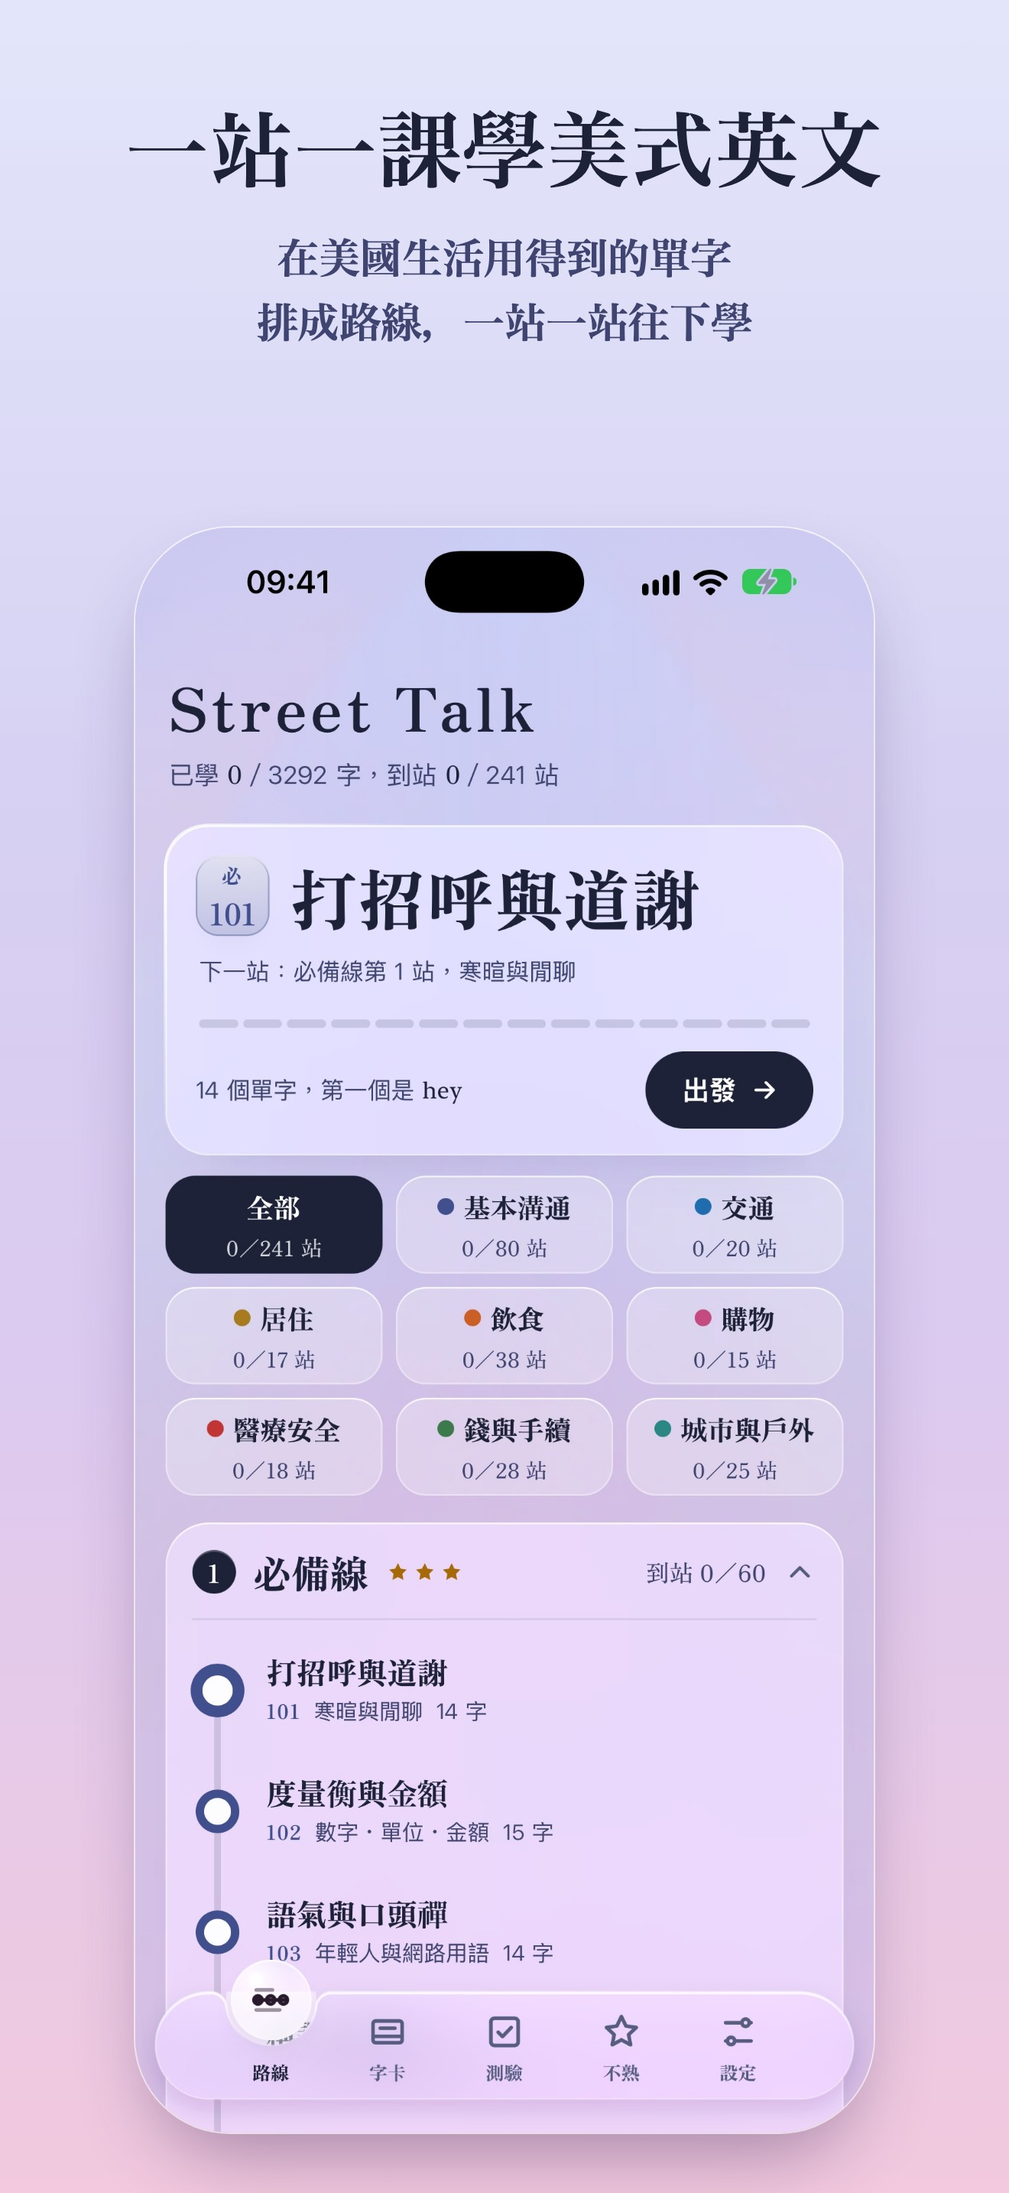
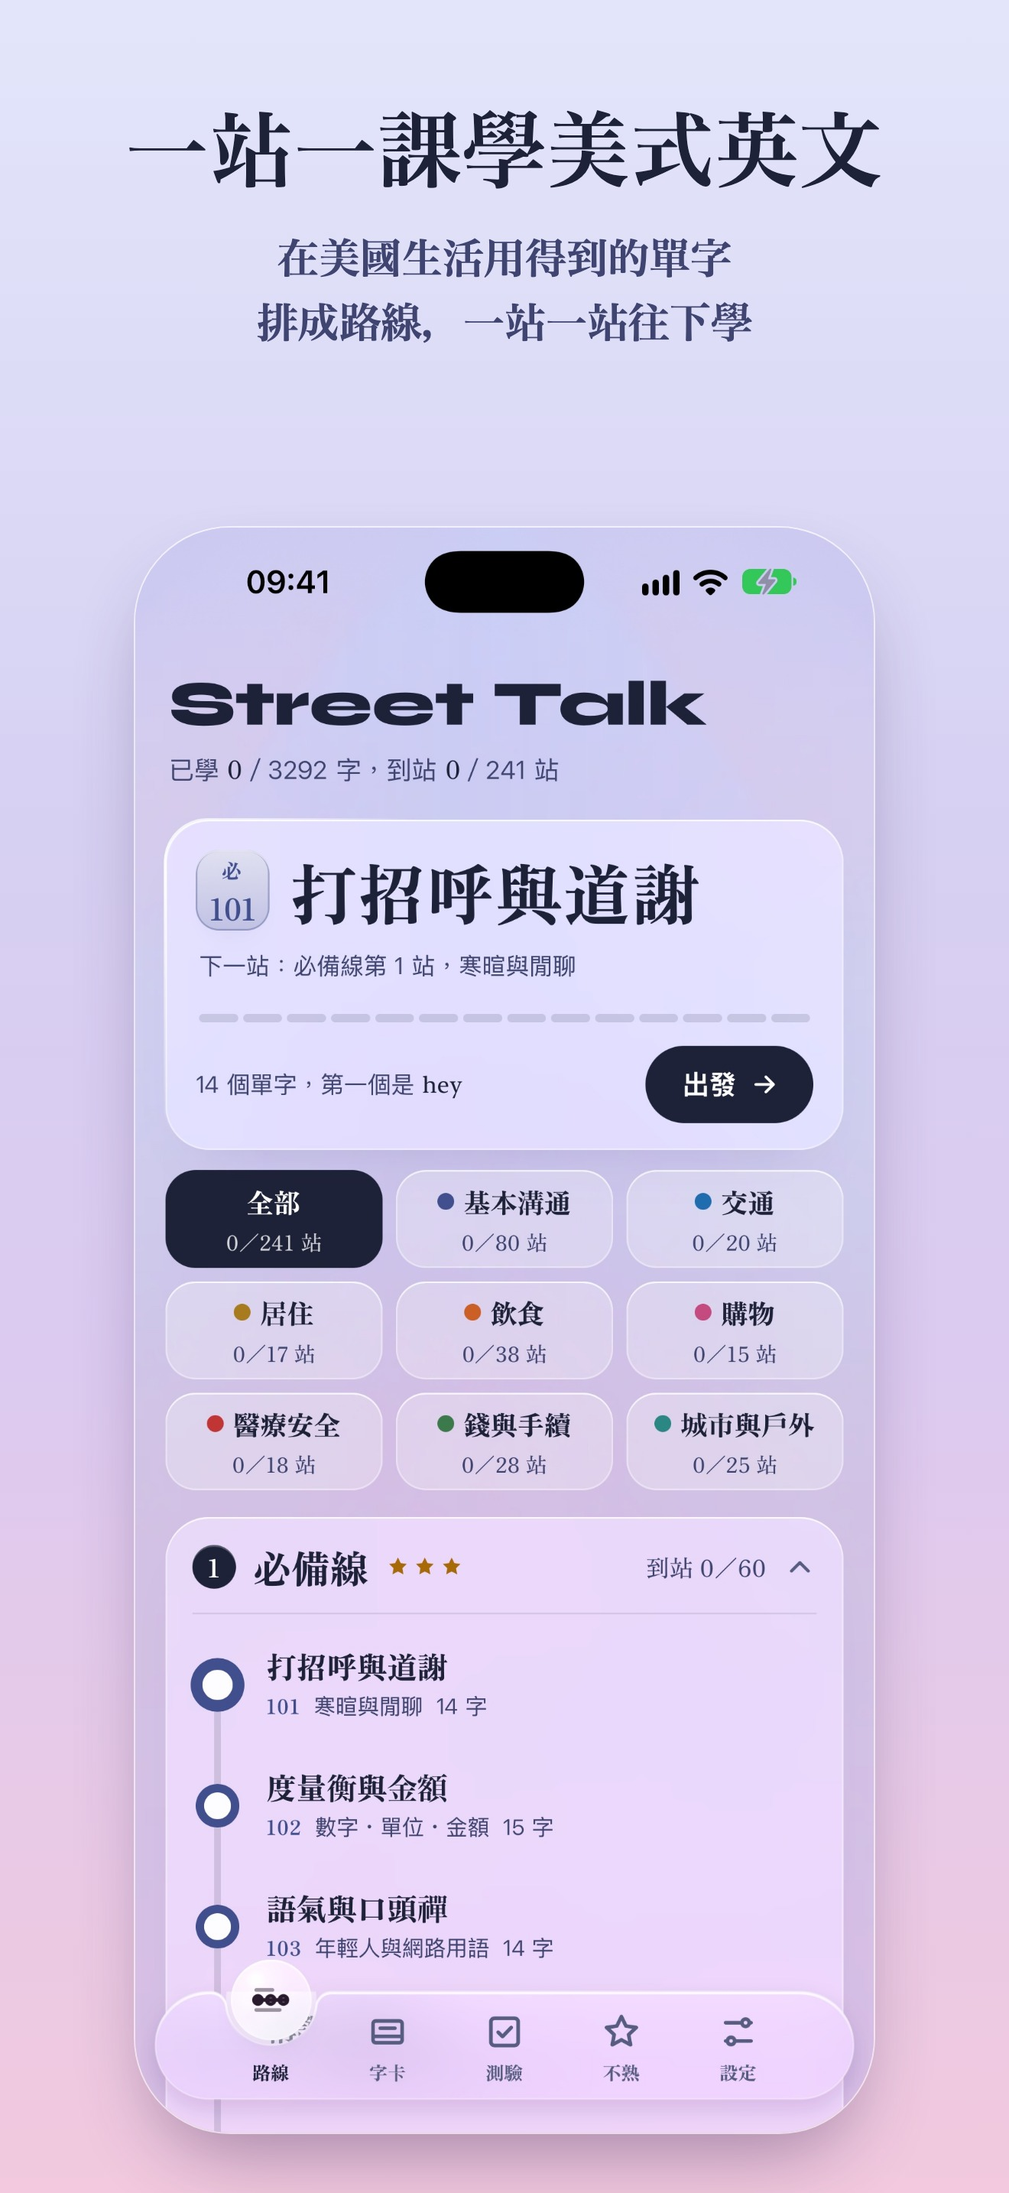
Street Talk：文案頁與截圖頁更新為部分付費版（免費＋完整課程、Syne 標題、鎖頭畫面、內購商品欄位與審查圖）

diff --git a/en-us-vocab/2026-10-10-store-text/index.html b/en-us-vocab/2026-10-10-store-text/index.html
@@ -17,11 +17,13 @@ a{color:var(--ink2)}h1{font-size:22px;margin:12px 0 4px}p.lead{color:var(--ink2)
 <h1>Street Talk：App Store 文案（複製貼上用）</h1>
 <p class="lead">App Store Connect →「App 資訊」與版本頁的欄位，照順序貼上；字數都在 Apple 的上限內。隱私權政策與支援頁已上線（公開的 jeremyl861225.github.io/apps）。</p>
 <div id="list"></div>
-<p class="note">類別：主要「教育」、次要「參考資料」。版權：「2026 你的法定姓名」。價格：免費（我預設，可改）。App 隱私權問卷選「不蒐集資料」。<br>
-<b>年齡分級要照實答，預期是 13+，不會是 4+</b>：約 20 張卡片說明粗話縮寫（都標「粗話，聽得懂就好」）、約 40 張酒吧與飲料字彙。逐題答案在 repo 的 ios/APPSTORE.md「年齡分級問卷」。<br>
-目前還缺：Apple Developer Program（付費帳號）— 加入後才能簽署並上傳。</p>
+<p class="note">類別：主要「教育」、次要「參考資料」。版權：「2026 你的法定姓名」。<br>
+<b>價格（2026-10-11 改成部分付費）</b>：App 免費下載＋App 內購買「完整課程」NT$290（一次買斷、永久使用）。免費：必備線 60 站、常用線前 2 站試學、離線字典與搜尋；完整課程：其餘常用線與進階線。最後一欄是內購商品要填的值。<br>
+App 隱私權問卷選「不蒐集資料」。<br>
+<b>年齡分級要照實答，預期是 13+，不會是 4+</b>：決定 13+ 的是約 40 張酒吧與飲料字卡、字典裡的酒類與藥物字彙（粗話縮寫只有約 20 張，單看粗話是 9+）。開機問年齡不能降級，也有審查風險，所以沒做。逐題答案在 repo 的 ios/APPSTORE.md「年齡分級」。<br>
+<b>上架前還有</b>：Apple Developer Program（付費帳號）與「付費 App 協議」、南韓要在「價格與供應狀況」拿掉（已有同名 StreetTalk 商標）、送審前到智慧局查第 9／41／42 類、網頁版（github.io/street-talk）上架當天要關掉。</p>
 </main><script>
-const FIELDS = [{"label": "名稱", "text": "Street Talk：美國生活英文單字卡", "limit": 30}, {"label": "副標題", "text": "課本沒教的美式說法，離線也能學", "limit": 30}, {"label": "宣傳文字", "text": "課本沒教的美式英文，在美國生活用得到的 3,292 個單字一次備齊：俚語與網路用語、點餐、租屋、看醫生、報稅、開車、職場。單字與片語附 KK 音標，女聲男聲發音，8 種測驗，完全離線。", "limit": 170}, {"label": "描述", "text": "Street Talk 是給台灣人的美國生活英文單字卡。跳過國高中課本教過的字，專收「課本沒教、到了美國一定會碰到」的美式說法：俚語與年輕人網路用語、慣用語、動詞片語，還有點餐、租屋、看醫生、報稅、開車、職場的實用字。依實用度排序，一站一課，像搭地鐵一樣一路往下學。全部免費。\n\n■ 3,292 張字卡、241 站\n・41 個主題：美式俚語、年輕人與網路用語、慣用語、動詞片語、機場與入境、大眾運輸與叫車、開車與 DMV、租屋與搬家、居家修繕、水電網路與手機、餐廳點餐、菜單與料理、速食與咖啡店、超市、購物與退貨、藥局、看醫生與醫療保險、銀行與付款、報稅與證件、職場、學校與小孩、國家公園與天氣、招牌標示、節日與運動、店員常說的話、電話客服與預約……\n・課本字只收「美國用法不同」的：check 是帳單、bill 是紙鈔、trunk 是後車廂\n・分必備、常用、進階三條線，依實用度排序\n・每張都有生活情境例句與中文解釋，幾乎每張還附一句提醒（課本陷阱、小費多少、哪些說法別在正式場合用）\n・單字與片語附 KK 音標\n\n■ 女聲、男聲發音\n・每個單字與例句都有預錄的女聲（Michelle）、男聲（Andrew）發音（語音合成），可交替播放、可放慢速度\n\n■ 8 種測驗\n看英文選中文、看中文選英文、看英文選重音正確的 KK、聽發音選單字、聽發音選中文、聽例句選意思、字母方塊拼字、聽寫。答錯的字可一鍵收進「不熟」清單，集中複習。\n\n■ 離線字典\n字卡以外的字也查得到：15,466 個常用字（中文釋義與 KK 音標），可用手機語音朗讀。\n\n■ 完全離線、不用註冊\n所有字卡、字典與發音都內建在 App 裡，沒有網路也能用。不需帳號、沒有廣告、不蒐集任何資料。\n\n■ 其他\n・深色模式\n・學習紀錄可匯出備份\n\n內容說明：Street Talk 教的是美國人實際怎麼說話，所以收了少數粗話與縮寫（例如 WTF），卡片上都會標註「粗話，聽得懂就好」；另有酒吧與飲料等和酒精有關的字彙。\n\n資料來源：KK 音標由 CMU Pronouncing Dictionary（美式發音）轉換；離線字典的中文釋義參考 ECDICT（MIT）；字型 Zen Old Mincho（SIL OFL 1.1）；發音為 Microsoft Azure 語音服務的神經語音。例句與中文解釋由 AI 撰寫，經規則檢查。", "limit": 4000}, {"label": "關鍵字", "text": "英語,美語,KK音標,俚語,留學,移民,旅遊,背單字,字典,發音,網路用語,慣用語,動詞片語,口語,會話,生活英文,出國,自由行", "limit": 100}, {"label": "支援網址", "text": "https://jeremyl861225.github.io/apps/street-talk/support.html"}, {"label": "隱私權政策網址", "text": "https://jeremyl861225.github.io/apps/street-talk/privacy.html"}, {"label": "App 審查備註（英文）", "text": "Street Talk is an American-English vocabulary flashcard app for Traditional Chinese speakers who live in, study in or travel to the United States.\nAll content (3,292 flashcards, a 15,466-word dictionary and all audio recordings) is bundled in the app. It works fully offline: no account, no sign-in, no network access, no in-app purchases, no tracking.\n\nHow to try it:\n- Home tab (路線): tap 出發 on the large card to start the next lesson; swipe a card to go to the next one; tap the speaker button to hear the pronunciation.\n- 測驗 (Quiz) tab: 8 quiz types, including choosing the correct KK (Taiwanese phonetic) stress pattern.\n- 字卡 (Cards) tab: search cards and the offline dictionary (English or Chinese).\n- 設定 (Settings): voice (female/male/alternating), speed, dark mode, export/import a progress backup; 關於 shows data sources, licenses, the privacy policy and support links.\n\nNote on content: because the app teaches how Americans actually talk, about 20 of the 3,292 cards explain slang or mild profanity (for example \"WTF\", \"kiss ass\"). Each is labeled \"粗話，聽得懂就好\" (\"vulgar; for understanding only\") and explained in a learning context. About 40 cards cover bar and drink vocabulary. There is no user-generated content, chat or web browsing. Audio is speech synthesized with Microsoft Azure Speech (neural voices Michelle and Andrew).", "limit": 4000}];
+const FIELDS = [{"label": "名稱", "text": "Street Talk：美國生活英文單字卡", "limit": 30}, {"label": "副標題", "text": "課本沒教的美式說法，離線也能學", "limit": 30}, {"label": "宣傳文字", "text": "課本沒教的美式英文：俚語與網路用語、點餐、租屋、看醫生、報稅、開車、職場。必備線與 1.5 萬字離線字典永遠免費，單字附 KK 音標與 AI 合成發音，8 種測驗，完全離線。", "limit": 170}, {"label": "描述", "text": "Street Talk 是給台灣人的美國生活英文單字卡。跳過國高中課本教過的字，專收「課本沒教、到了美國一定會碰到」的美式說法：俚語與年輕人網路用語、慣用語、動詞片語，還有點餐、租屋、看醫生、報稅、開車、職場的實用字。依實用度排序，一站一課，像搭地鐵一樣一路往下學。\n\n■ 免費與完整課程\n・App 免費下載。必備線 60 站（823 張字卡）、常用線前 2 站試學、15,439 字離線字典與搜尋，永遠免費\n・完整課程（App 內購買，一次買斷、永久使用、沒有訂閱）：解鎖其餘的常用線與進階線，共 179 站、2,440 張字卡\n・換手機或重裝，用同一個 Apple 帳號就能恢復購買\n\n■ 3,292 張字卡、241 站\n・41 個主題：美式俚語、年輕人與網路用語、慣用語、動詞片語、機場與入境、大眾運輸與叫車、開車與 DMV、租屋與搬家、居家修繕、水電網路與手機、餐廳點餐、菜單與料理、速食與咖啡店、超市、購物與退貨、藥局、看醫生與醫療保險、銀行與付款、報稅與證件、職場、學校與小孩、國家公園與天氣、招牌標示、節日與運動、店員常說的話、電話客服與預約……\n・課本字只收「美國用法不同」的：check 是帳單、bill 是紙鈔、trunk 是後車廂\n・分必備、常用、進階三條線，依實用度排序\n・每張都有生活情境例句與中文解釋，幾乎每張還附一句提醒（課本陷阱、小費多少、哪些說法別在正式場合用）\n・單字與片語附 KK 音標\n\n■ AI 合成語音發音\n・每個單字與例句都有預錄的發音：Microsoft Azure AI Speech 的 AI 合成語音（Michelle 女聲、Andrew 男聲，不是真人錄音），可交替播放、可放慢速度\n\n■ 8 種測驗\n看英文選中文、看中文選英文、看英文選重音正確的 KK、聽發音選單字、聽發音選中文、聽例句選意思、字母方塊拼字、聽寫。答錯的字可一鍵收進「不熟」清單，集中複習。\n\n■ 離線字典\n字卡以外的字也查得到：15,439 個常用字（中文釋義與 KK 音標），可用手機語音朗讀。\n\n■ 離線、不用註冊\n所有字卡、字典與發音都內建在 App 裡，沒有網路也能用（只有購買與恢復購買需要網路）。不需帳號、沒有廣告、不蒐集任何資料。\n\n■ 其他\n・深色模式\n・學習紀錄可匯出備份\n\n內容說明：Street Talk 教的是美國人實際怎麼說話，所以收了少數粗話與縮寫（例如 WTF），卡片與字典都會標註「粗話」；另有酒吧與飲料等和酒精有關的字彙。\n\n資料來源：KK 音標由 CMU Pronouncing Dictionary（美式發音）轉換；離線字典的中文釋義參考 ECDICT（MIT）；詞頻排序參考 wordfreq；標題字型 Syne、內文字型 Zen Old Mincho（SIL OFL 1.1）。例句與中文解釋由 AI 撰寫，經規則檢查。", "limit": 4000}, {"label": "關鍵字", "text": "英語,美語,KK音標,俚語,留學,移民,旅遊,背單字,字典,發音,網路用語,慣用語,動詞片語,口語,會話,生活英文,出國,自由行", "limit": 100}, {"label": "支援網址", "text": "https://jeremyl861225.github.io/apps/street-talk/support.html", "limit": null}, {"label": "隱私權政策網址", "text": "https://jeremyl861225.github.io/apps/street-talk/privacy.html", "limit": null}, {"label": "App 審查備註（英文）", "text": "Street Talk is an American-English vocabulary flashcard app for Traditional Chinese speakers who live in, study in or travel to the United States.\nAll content (3,292 flashcards, a 15,439-word dictionary and all audio recordings) is bundled in the app. It works offline: no account, no sign-in, no tracking. The only network use is StoreKit (reading the price, buying and restoring the in-app purchase).\n\nHow to try it:\n- Home tab (路線): tap 出發 on the large card to start the next lesson; swipe a card to go to the next one; tap the speaker button to hear the pronunciation.\n- 測驗 (Quiz) tab: 8 quiz types, including choosing the correct KK (Taiwanese phonetic) stress pattern.\n- 字卡 (Cards) tab: search cards and the offline dictionary (English or Chinese).\n- 設定 (Settings): voice (female/male/alternating), speed, dark mode, 完整課程 (purchase / restore), export/import a progress backup; 關於 shows data sources, licenses, the privacy policy and support links.\n\nIn-app purchase: the app is free to download with substantial free content (the 必備線 line with 60 stations / 823 cards, the first 2 stations of 常用線 as a trial, the dictionary and search). A one-time non-consumable purchase 「完整課程」(com.jeremyl861225.streettalk.pro) unlocks the remaining 常用線 and 進階線 lines (179 stations, 2,440 cards). Tap any station marked with a lock (or 設定 → 完整課程) to see the purchase screen; 「恢復購買」 (Restore Purchases) is on the same screen and in Settings.\n\nNote on content: because the app teaches how Americans actually talk, about 20 of the 3,292 cards (and 20 dictionary entries) explain slang or profanity (for example \"WTF\", \"kiss ass\"). Each is labeled as vulgar (\"粗話，聽得懂就好\" / \"（粗話）\") and explained in a learning context; discriminatory slurs and explicit sexual terms are not included. About 40 cards cover bar and drink vocabulary. There is no user-generated content, chat or web browsing. Audio is AI-synthesized speech (Microsoft Azure AI Speech neural voices Michelle and Andrew); this is disclosed in the app and the store description.", "limit": 4000}, {"label": "App 內購買商品「完整課程」（App Store Connect → 營利 → App 內購買項目）", "text": "類型：非消耗型項目（Non-Consumable）\n參考名稱：完整課程\n產品 ID：com.jeremyl861225.streettalk.pro\n價格：NT$290\n家人共享：開啟（開啟後不能關閉）\n顯示名稱（中文繁體，≤30 字）：完整課程\n描述（中文繁體，≤45 字）：解鎖常用線與進階線。一次購買、永久使用。\n審查用截圖：ios/appstore/iap-review.jpg（購買頁）", "limit": null}];
 document.getElementById('list').innerHTML = FIELDS.map((f, j) => `<div class="f"><h2>${f.label}<span class="n">${f.limit ? `${[...f.text].length}／${f.limit} 字` : ''}</span><button data-c="${j}">複製</button></h2><pre>${f.text.replace(/&/g, '&amp;').replace(/</g, '&lt;')}</pre></div>`).join('');
 document.addEventListener('click', async (e) => {
   const c = e.target.closest('[data-c]'); if (!c) return;

diff --git a/index.html b/index.html
@@ -28,6 +28,16 @@
   <p>各專案要給你看、讓你挑的測試頁都放這裡，新的在上面。</p>
 </header>
 <main>
+  <a class="item" href="en-us-vocab/2026-10-10-store-text/">
+    <span class="meta">2026-10-11　Street Talk（英文單字卡）</span>
+    <b>App Store 文案（複製貼上用）</b>
+    <span class="sum">名稱、副標題、宣傳文字、描述（含免費與完整課程說明、AI 合成語音揭露）、關鍵字、支援與隱私權政策網址、審查備註、內購商品欄位，每欄有字數與複製鍵；年齡分級預期 13+。</span>
+  </a>
+  <a class="item" href="en-us-vocab/2026-10-10-appstore-screenshots/">
+    <span class="meta">2026-10-11　Street Talk（英文單字卡）</span>
+    <b>App Store 截圖（7 張，附標題）＋內購審查圖</b>
+    <span class="sum">上架用的 6.9 吋截圖：App 實際畫面加上一句標題與說明（薰衣草粉彩）；首頁標題改 Syne ExtraBold、搜尋畫面看得到沒買時的鎖頭；另附內購審查用的購買頁。</span>
+  </a>
   <a class="item" href="checkly-ios/2026-10-10-listing/">
     <span class="meta">2026-10-10　Typeday 原生 App</span>
     <b>Typeday 商店文案與隱私權政策</b>
@@ -38,11 +48,6 @@
     <b>Typeday 商店截圖（7 張）</b>
     <span class="sum">App Store 用的 6.9 吋宣傳截圖：月曆、重複排程、任務、未完成、小工具、兩種外觀、自動備份，打字機風格標題＋手機外框，示範資料。</span>
   </a>
-  <a class="item" href="en-us-vocab/2026-10-10-store-text/">
-    <span class="meta">2026-10-10　Street Talk（英文單字卡）</span>
-    <b>App Store 文案（複製貼上用）</b>
-    <span class="sum">名稱、副標題、宣傳文字、描述、關鍵字、支援與隱私權政策網址、審查備註，每欄有字數與複製鍵；另註明年齡分級預期 13+。</span>
-  </a>
   <a class="item" href="tabi-kotoba/2026-10-10-store-text/">
     <span class="meta">2026-10-10　旅ことば／여행말</span>
     <b>App Store 文案（複製貼上用）</b>
@@ -52,11 +57,6 @@
     <span class="meta">2026-10-10　여행말（韓文旅遊單字卡）</span>
     <b>App Store 截圖（7 張，附標題）</b>
     <span class="sum">上架用的 6.9 吋截圖：App 實際畫面加上一句標題與說明，背景用 App 的天空色（韓文版的淡紫）。</span>
-  </a>
-  <a class="item" href="en-us-vocab/2026-10-10-appstore-screenshots/">
-    <span class="meta">2026-10-10　Street Talk（英文單字卡）</span>
-    <b>App Store 截圖（7 張，附標題）</b>
-    <span class="sum">上架用的 6.9 吋截圖：App 實際畫面加上一句標題與說明，背景用 App 的薰衣草粉彩（10/4 新圖示的色系）。</span>
   </a>
   <a class="item" href="tabi-kotoba/2026-10-10-appstore-screenshots/">
     <span class="meta">2026-10-10　旅ことば（日文旅遊單字卡）</span>

diff --git a/en-us-vocab/2026-10-10-appstore-screenshots/index.html b/en-us-vocab/2026-10-10-appstore-screenshots/index.html
@@ -24,12 +24,12 @@
 <main>
   <a class="back" href="../../">← 所有測試</a>
   <h1>Street Talk：App Store 截圖</h1>
-  <p>7 張，依上傳順序。1320 × 2868（6.9 吋），App Store Connect 會自動縮給其他尺寸。點圖看原尺寸。畫面是 App 實際畫面（iPhone 18 Pro Max 模擬器），圖示與配色是 10/4 定案的白色對話氣泡＋美國國會大廈。</p>
+  <p>上傳用 7 張，依順序；另有第 8 張只給內購審查看。1320 × 2868（6.9 吋），App Store Connect 會自動縮給其他尺寸。點圖看原尺寸。畫面是 App 實際畫面（iPhone 18 Pro Max 模擬器）。<br>2026-10-11 更新：標題字型換成 Syne ExtraBold（首頁大標題）；改成部分付費後，第 4 張搜尋畫面裡「進階線」的字卡出現鎖頭（沒買時的樣子）；行銷圖不放價格（審查準則 2.3.7）。</p>
   <div class="grid" id="g"></div>
 </main>
 <script>
-  const items = [['1-home', '首頁路線'], ['2-card', '字卡（check＝帳單）'], ['3-quiz', '測驗（KK 重音題）'], ['4-search', '搜尋：字卡＋離線字典'], ['5-unit', '一站的單字列表'], ['6-slang', '俚語與網路用語站'], ['7-dark', '深色模式']];
-  document.getElementById('g').innerHTML = items.map(([f, t], i) => `<figure><a href="${f}.jpg"><img src="${f}.jpg" alt="${t}" loading="lazy"></a><figcaption>${i + 1}. ${t}</figcaption></figure>`).join('');
+  const items = [['1-home', '首頁路線'], ['2-card', '字卡（check＝帳單）'], ['3-quiz', '測驗（KK 重音題）'], ['4-search', '搜尋：字卡＋離線字典'], ['5-unit', '一站的單字列表'], ['6-slang', '俚語與網路用語站'], ['7-dark', '深色模式'], ['iap-review', '內購審查用：購買頁（只給審查人員看，可有價格，不是上傳用）']];
+  document.getElementById('g').innerHTML = items.map(([f, t], i) => `<figure><a href="${f}.jpg"><img src="${f}.jpg" alt="${t}" loading="lazy"></a><figcaption>${i < 7 ? (i + 1) + '. ' : '審查用　'}${t}</figcaption></figure>`).join('');
 </script>
 </body>
 </html>
